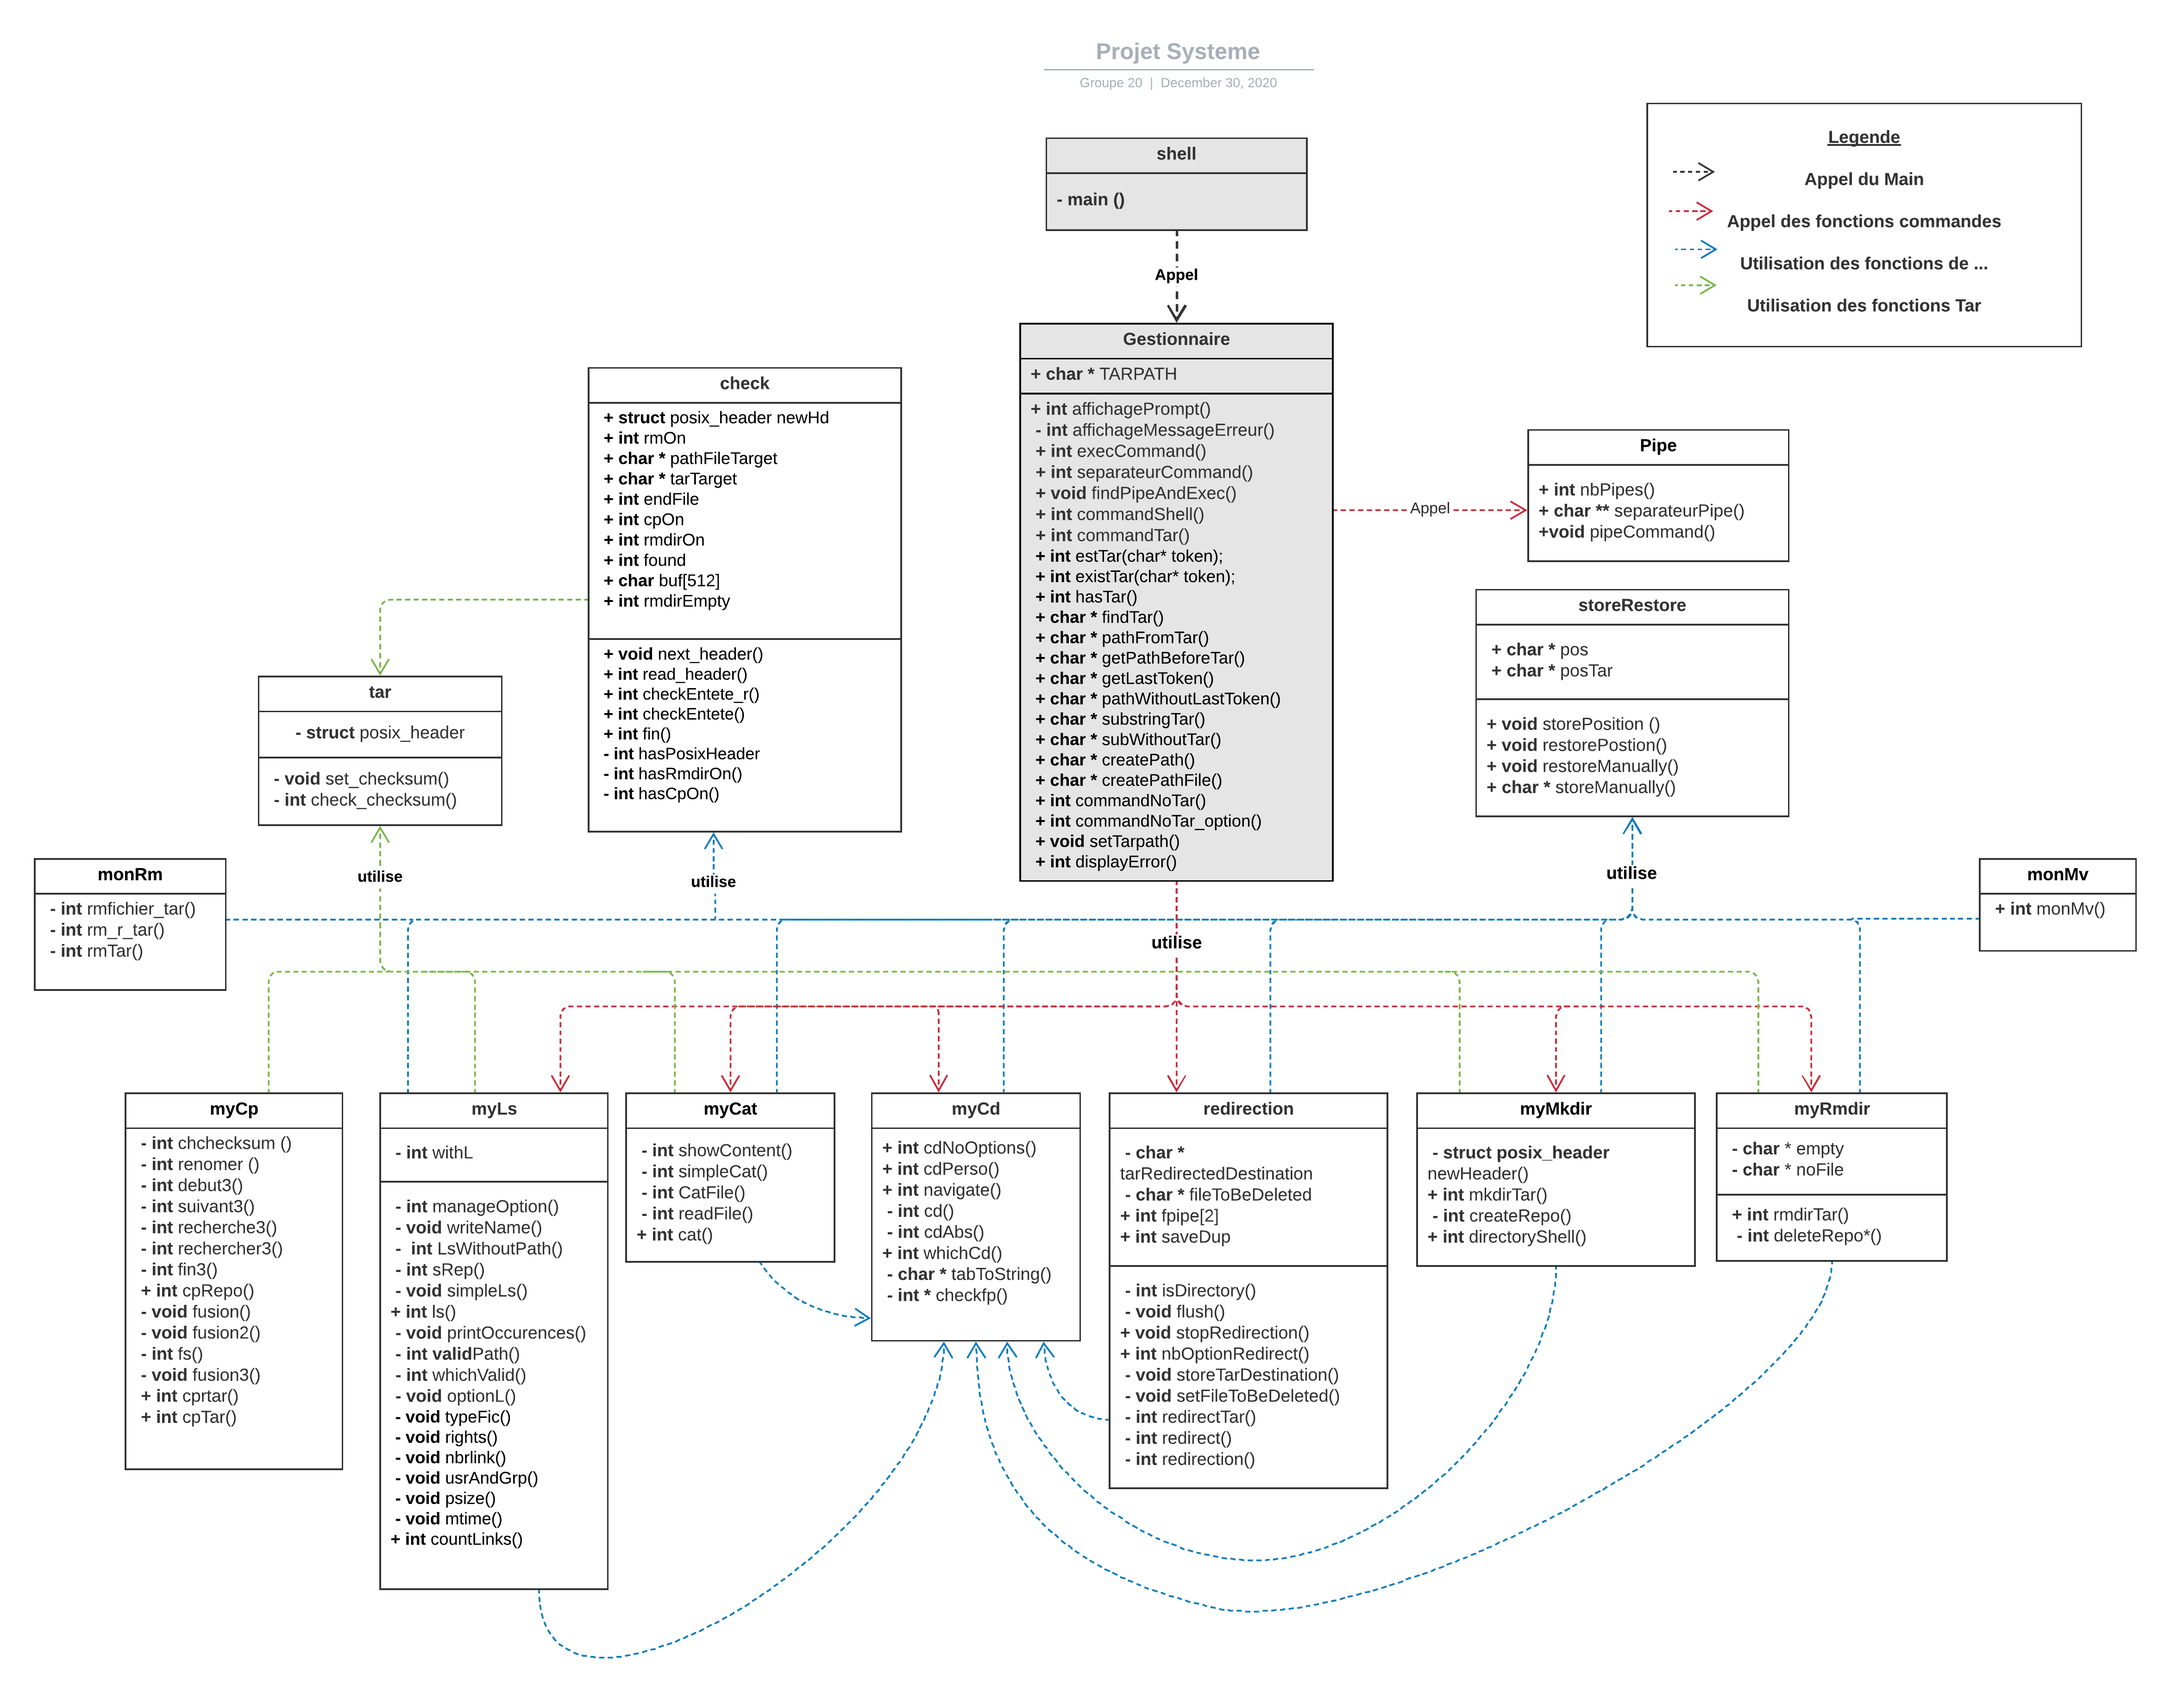
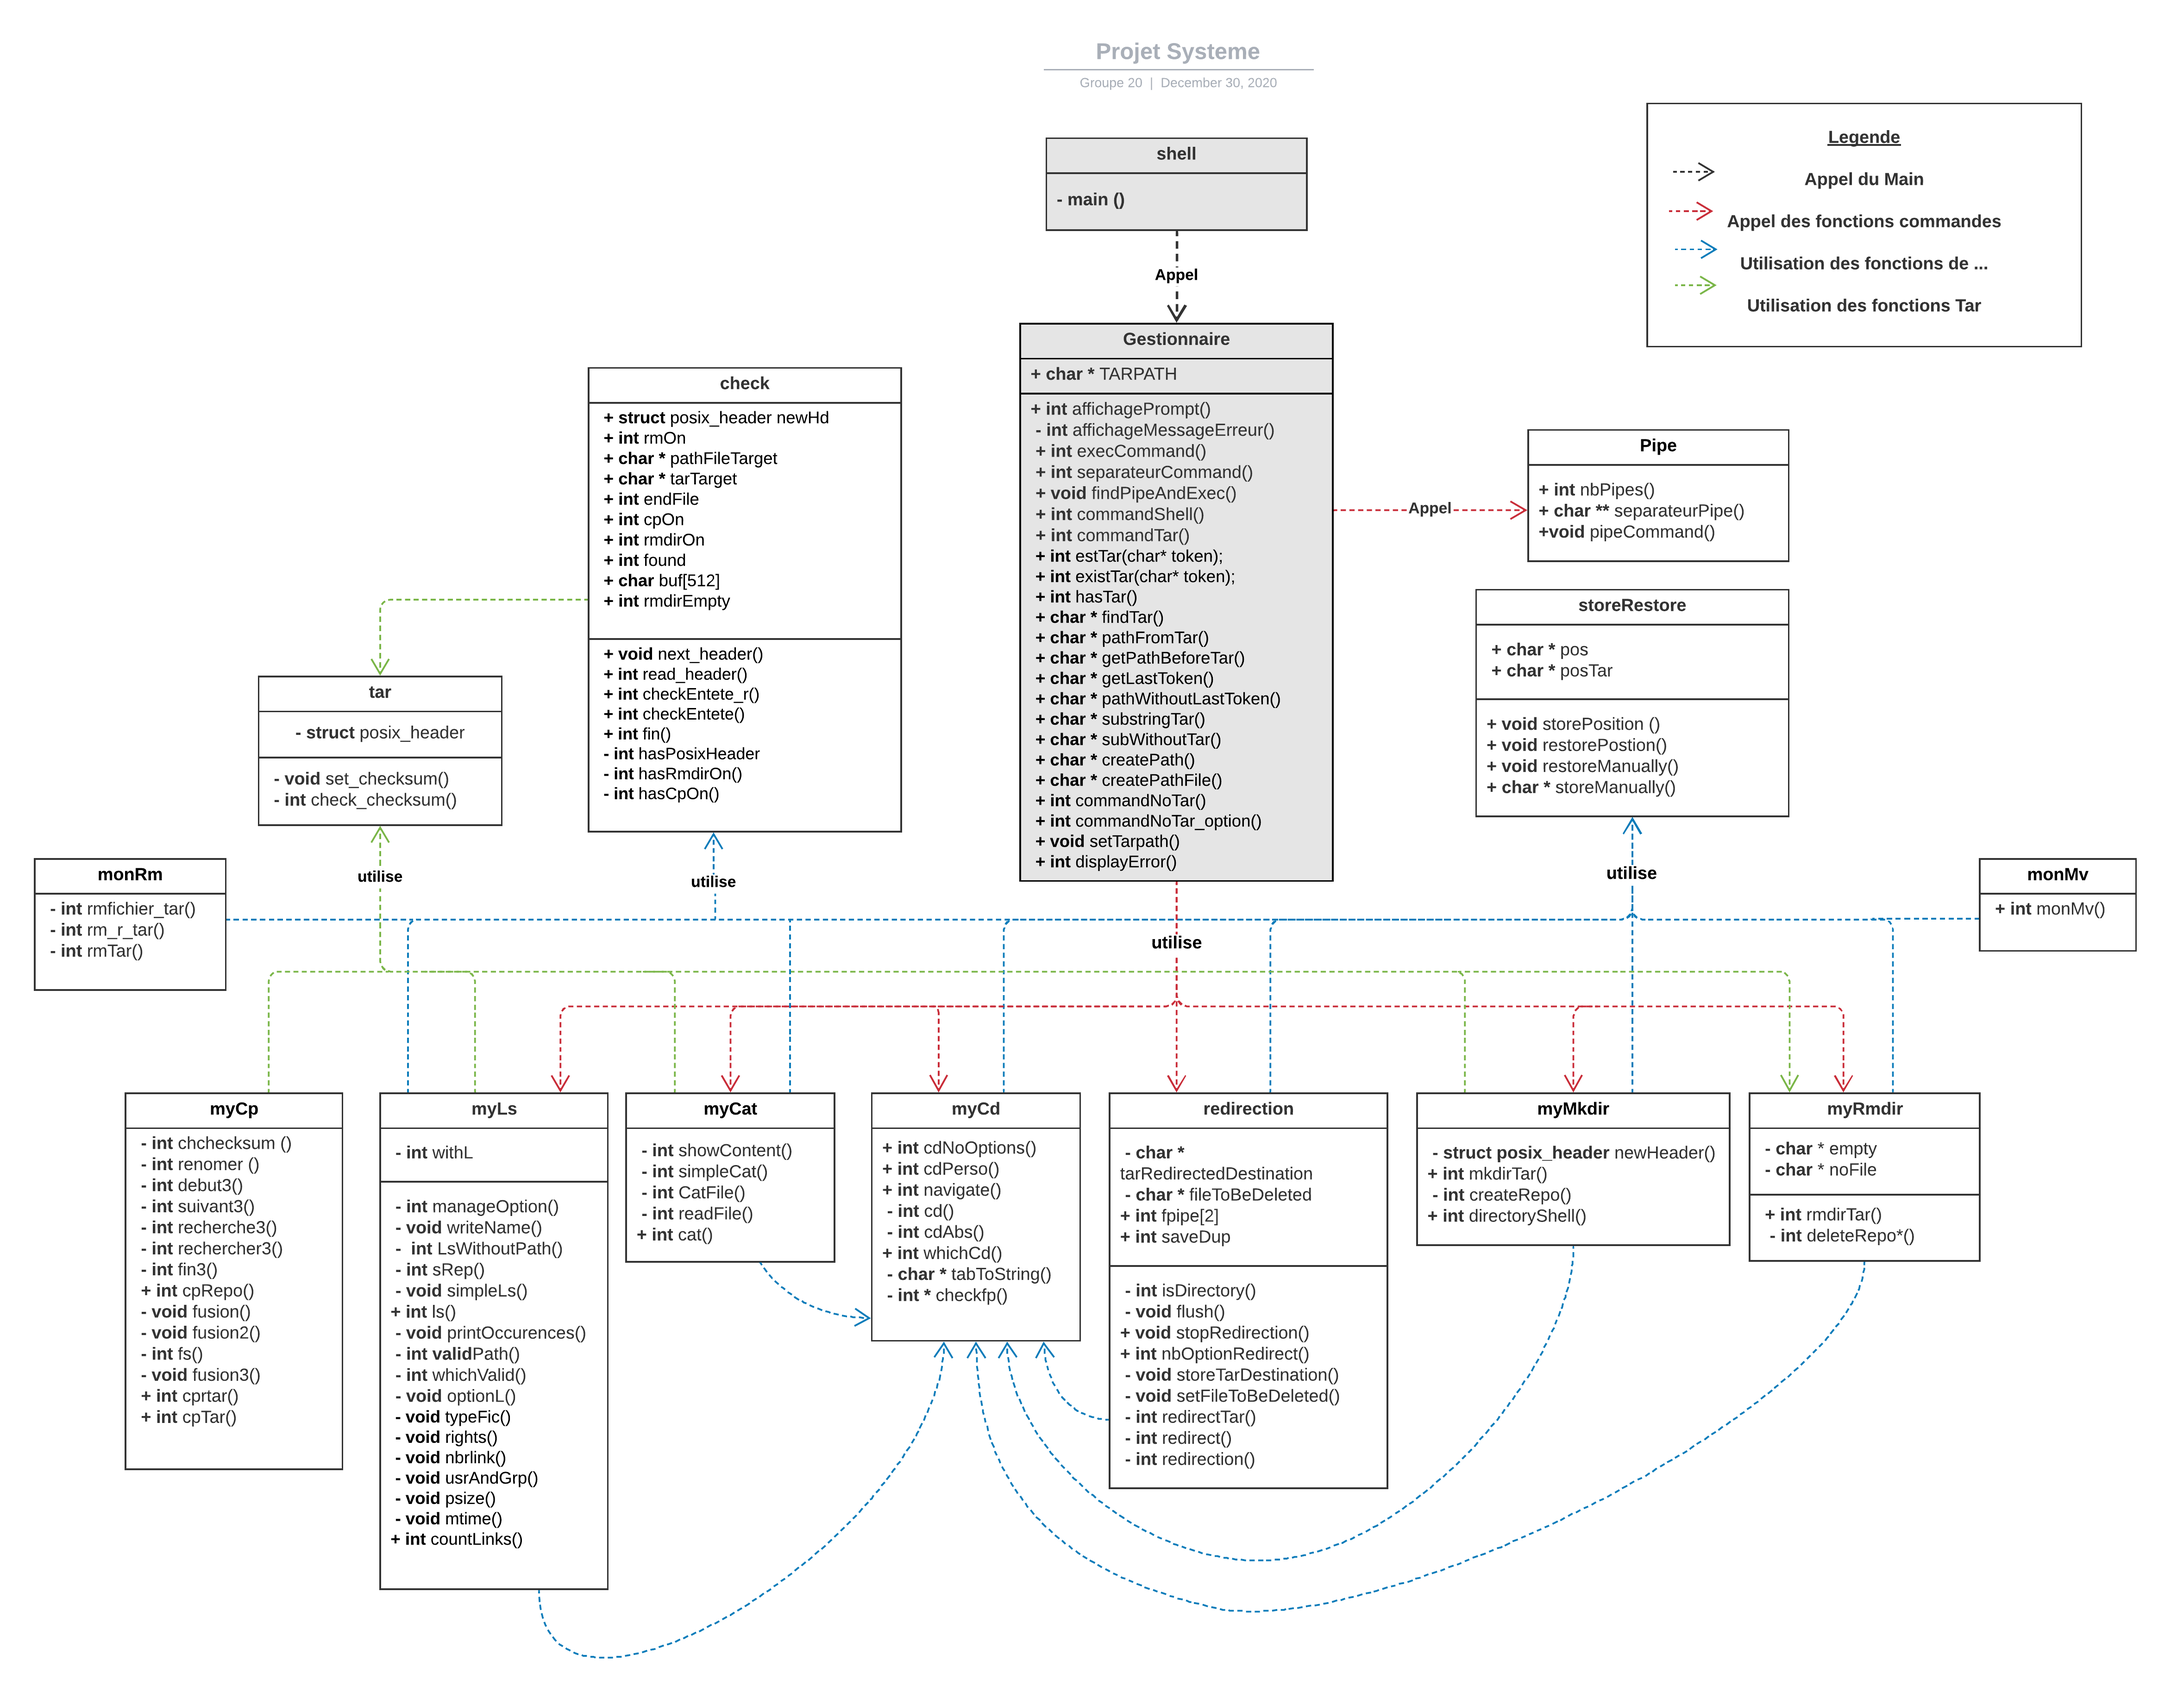
re modif diag et suppression commentaire

Changed region(s): [[0.7786, 0.624, 0.872, 0.7488], [0.654, 0.6864, 0.7474, 0.7488], [0.7163, 0.624, 0.7474, 0.6552]]

diff --git a/code/gestionnaire.h b/code/gestionnaire.h
@@ -22,8 +22,6 @@ char * TARPATH;
 
 int affichagePrompt(void);
 
-//int afficheMessageErreur(char ** command);
-
 int execCommand(char ** command);
 
 int separateurCommand(char * buff, char ** command);
